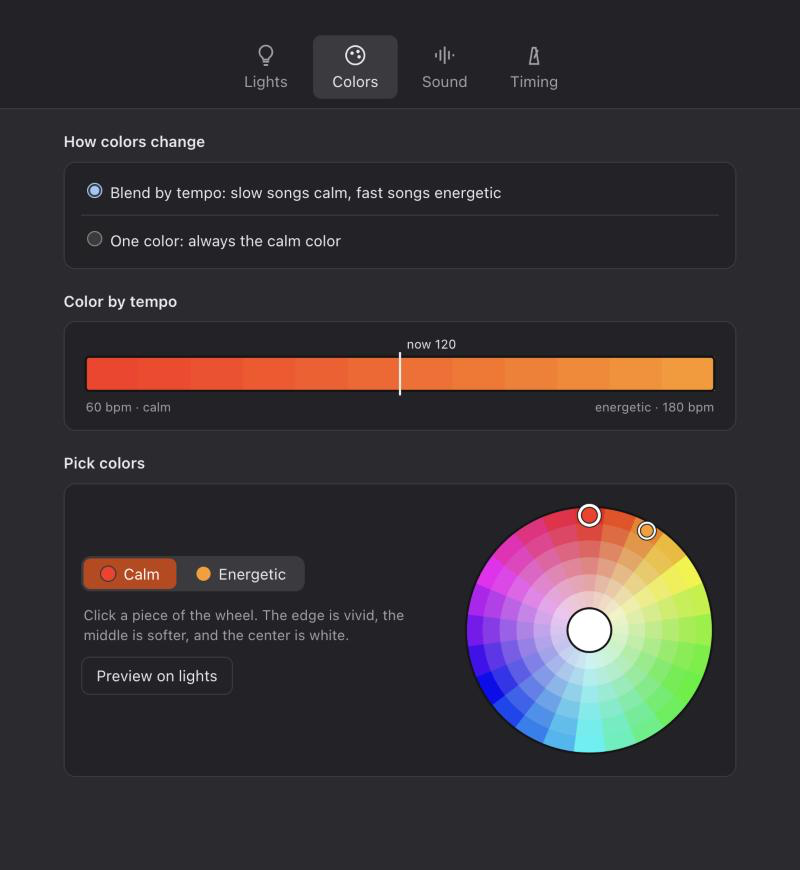
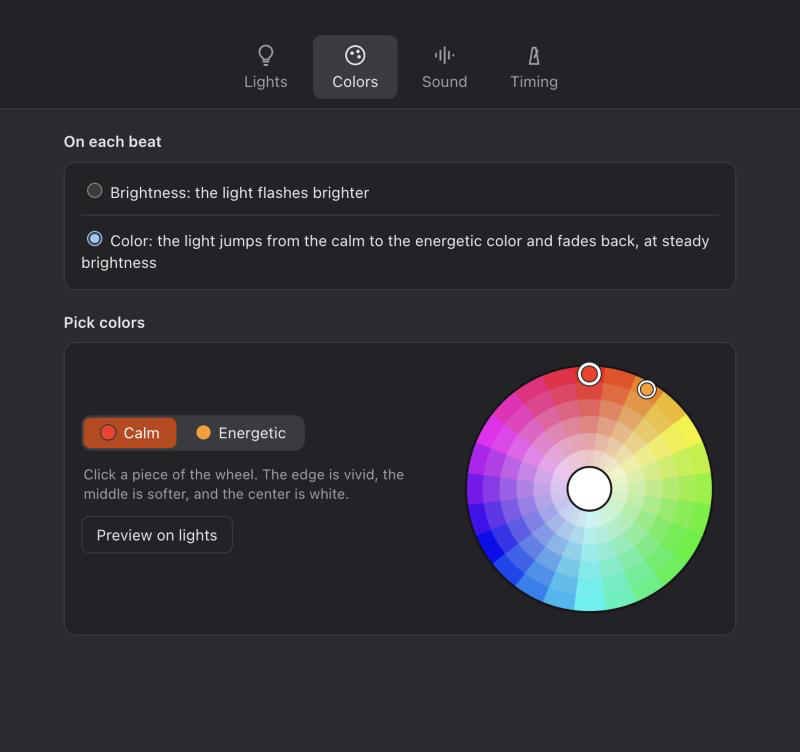
README: color pulse and one drum per light, new Lights and Colors screenshots

diff --git a/README.md b/README.md
@@ -20,6 +20,12 @@ The main window looks like a small piece of studio gear. Press Play: the meter's
 - **Stop** puts each light back the way it looked before you pressed Play.
 - Your lights, colors and timing from the old version carry over automatically. Settings live in `~/Library/Application Support/Temponome/`.
 
+## Ways the lights can react
+
+- **Brightness or color.** In Settings → Colors, choose what each beat changes. *Brightness* flashes the lights brighter. *Color* keeps them at a steady brightness and makes them jump from your calm color to your energetic one on every beat, then fade back.
+- **One drum per light.** In Settings → Lights, each light can follow the beat, or just one drum: the **kick**, the **snare** or the **hi-hats**. For example, one lamp can thump with the kick while another flickers with the hi-hats. The snare choice may also catch guitar or voice, which sit in the same range. Drums land best with *Play music through Temponome* on (below).
+- **Together or Chase.** On the main window, lights that follow the beat can flash together or take turns.
+
 ## Lights exactly on the beat
 
 Turn on **Play music through Temponome** in Settings → Sound. Temponome then plays your Mac's sound to your speaker itself, about 0.3 seconds late. Because it hears every drum hit before you do, it can make each light flash at the moment you hear the hit, instead of guessing where the next beat will be.
@@ -36,8 +42,8 @@ Even with it off, Temponome now keeps a steadier beat: it ignores brief jumps in
 
 | Lights | Colors | Timing |
 |---|---|---|
-| <img src="docs/screenshots/settings-lights.png" alt="Lights tab: three found lights with their color choice, Find my lights, and the Tapo account"> | <img src="docs/screenshots/settings-colors.png" alt="Colors tab: a strip showing the color at each tempo above a segmented color wheel with calm and energetic markers"> | <img src="docs/screenshots/settings-timing.png" alt="Timing tab: camera calibration and a fine-tune slider from Earlier to Later"> |
-| Find your lights on Wi-Fi and pick which to use. | Pick a calm and an energetic color on the wheel; the strip shows the color at every tempo, and Preview shows it on your lights. | Measure each light's delay with the Mac's camera, so flashes land on the beat. |
+| <img src="docs/screenshots/settings-lights.png" alt="Lights tab: three lights, each with what it reacts to (kick drum, hi-hats, on the beat) and its color choice, plus Find my lights"> | <img src="docs/screenshots/settings-colors.png" alt="Colors tab: On each beat set to Color, above a segmented color wheel with calm and energetic markers"> | <img src="docs/screenshots/settings-timing.png" alt="Timing tab: camera calibration and a fine-tune slider from Earlier to Later"> |
+| Find your lights on Wi-Fi, pick which to use, and choose what each one reacts to. | Choose whether a beat changes brightness or color, and pick a calm and an energetic color on the wheel; Preview shows it on your lights. With Brightness, a strip shows the color at every tempo. | Measure each light's delay with the Mac's camera, so flashes land on the beat. |
 
 | Sound |   |
 |---|---|
